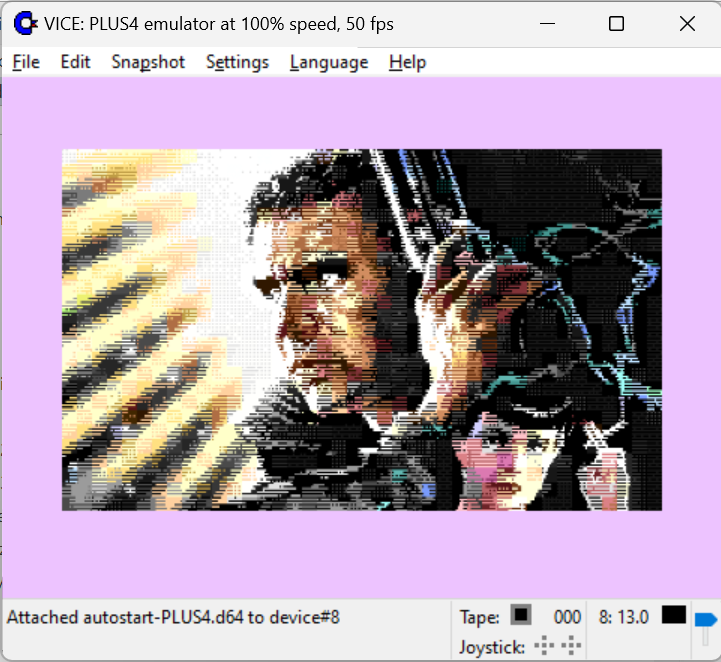
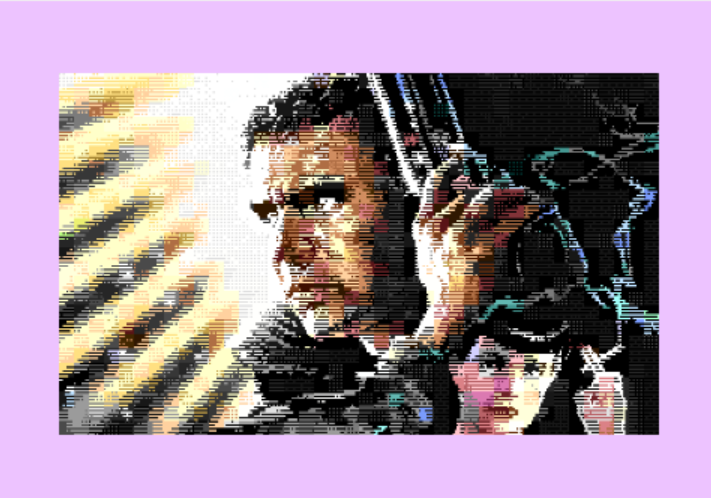
screen shots update

diff --git a/README.md b/README.md
@@ -81,7 +81,7 @@ Exports to executable PRG.
 
 Exports to executable PRG.
 
-![Hires](plus4.png)
+![Hires](venusPlus4.png)
 
 ### ZX Spectrum 48/+
 
